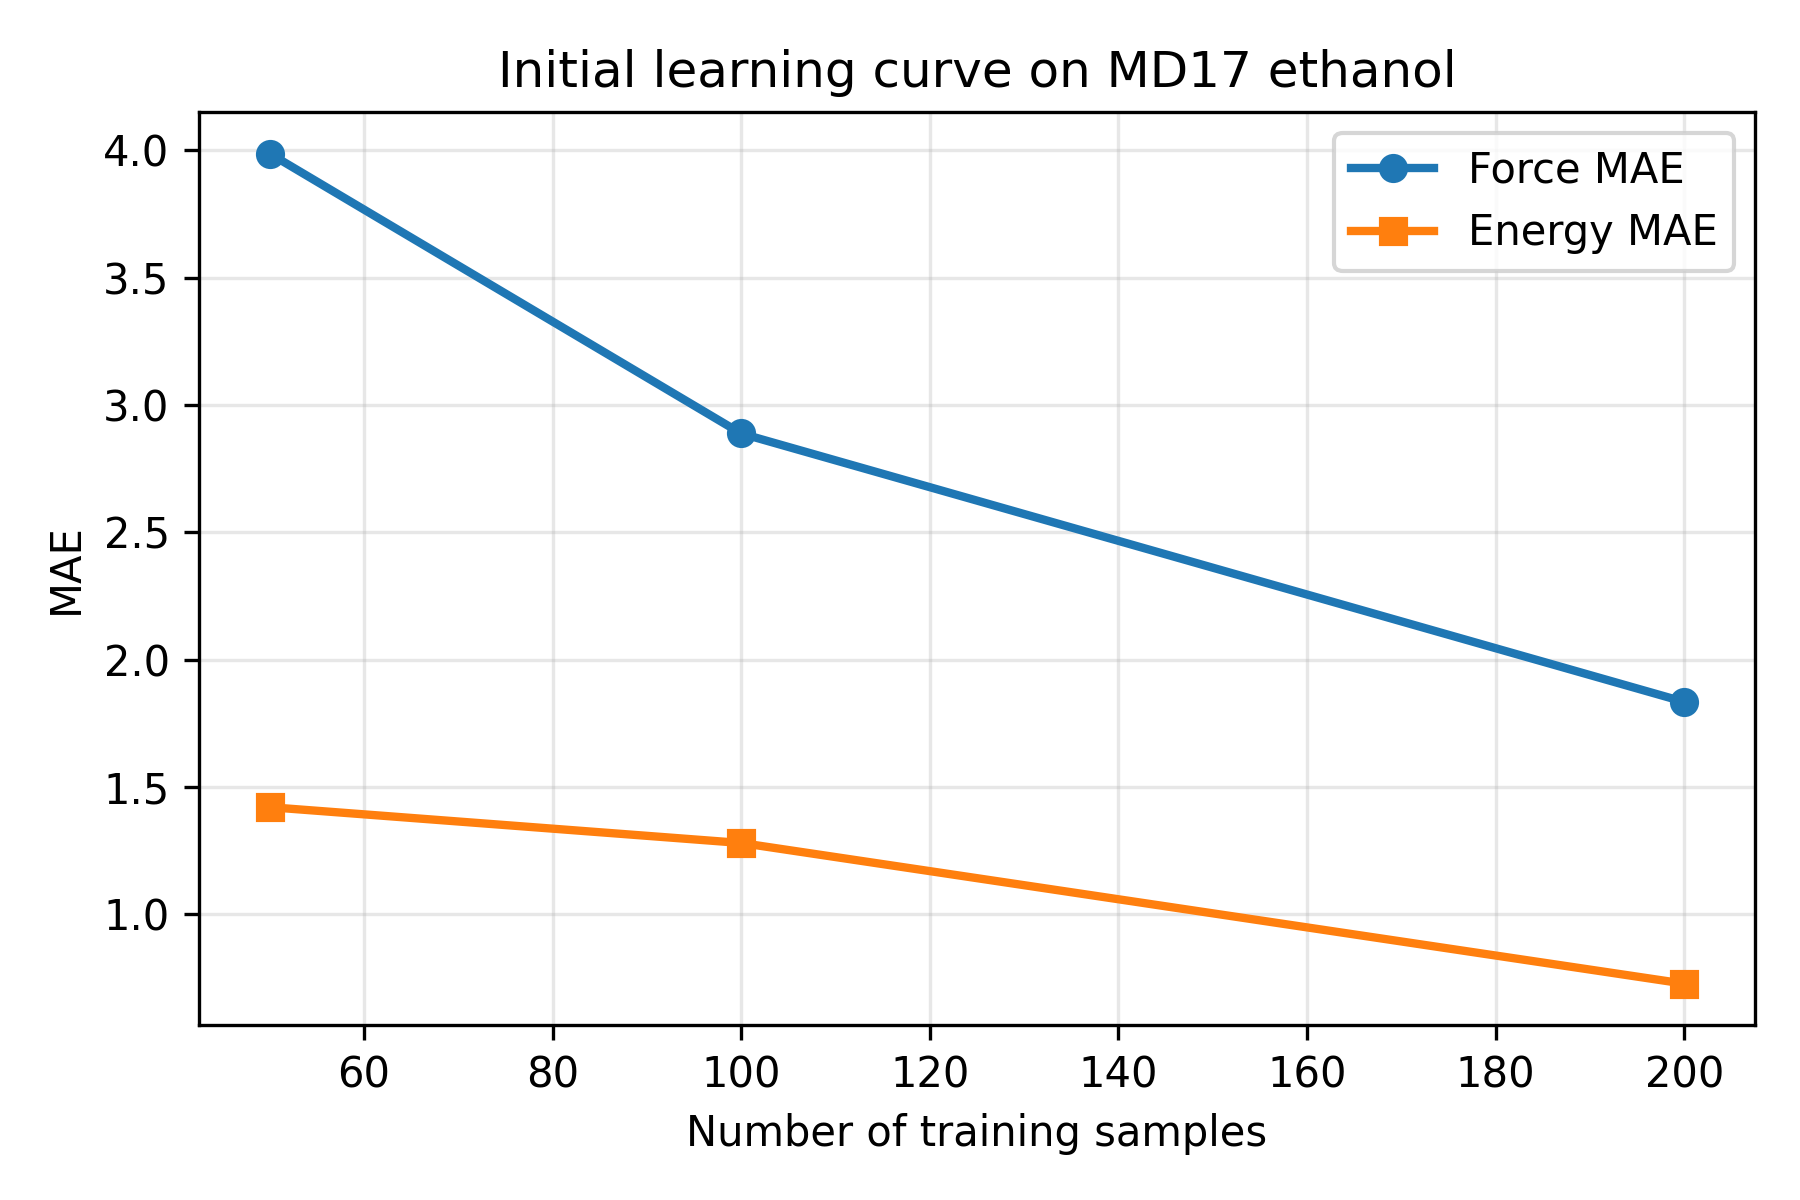
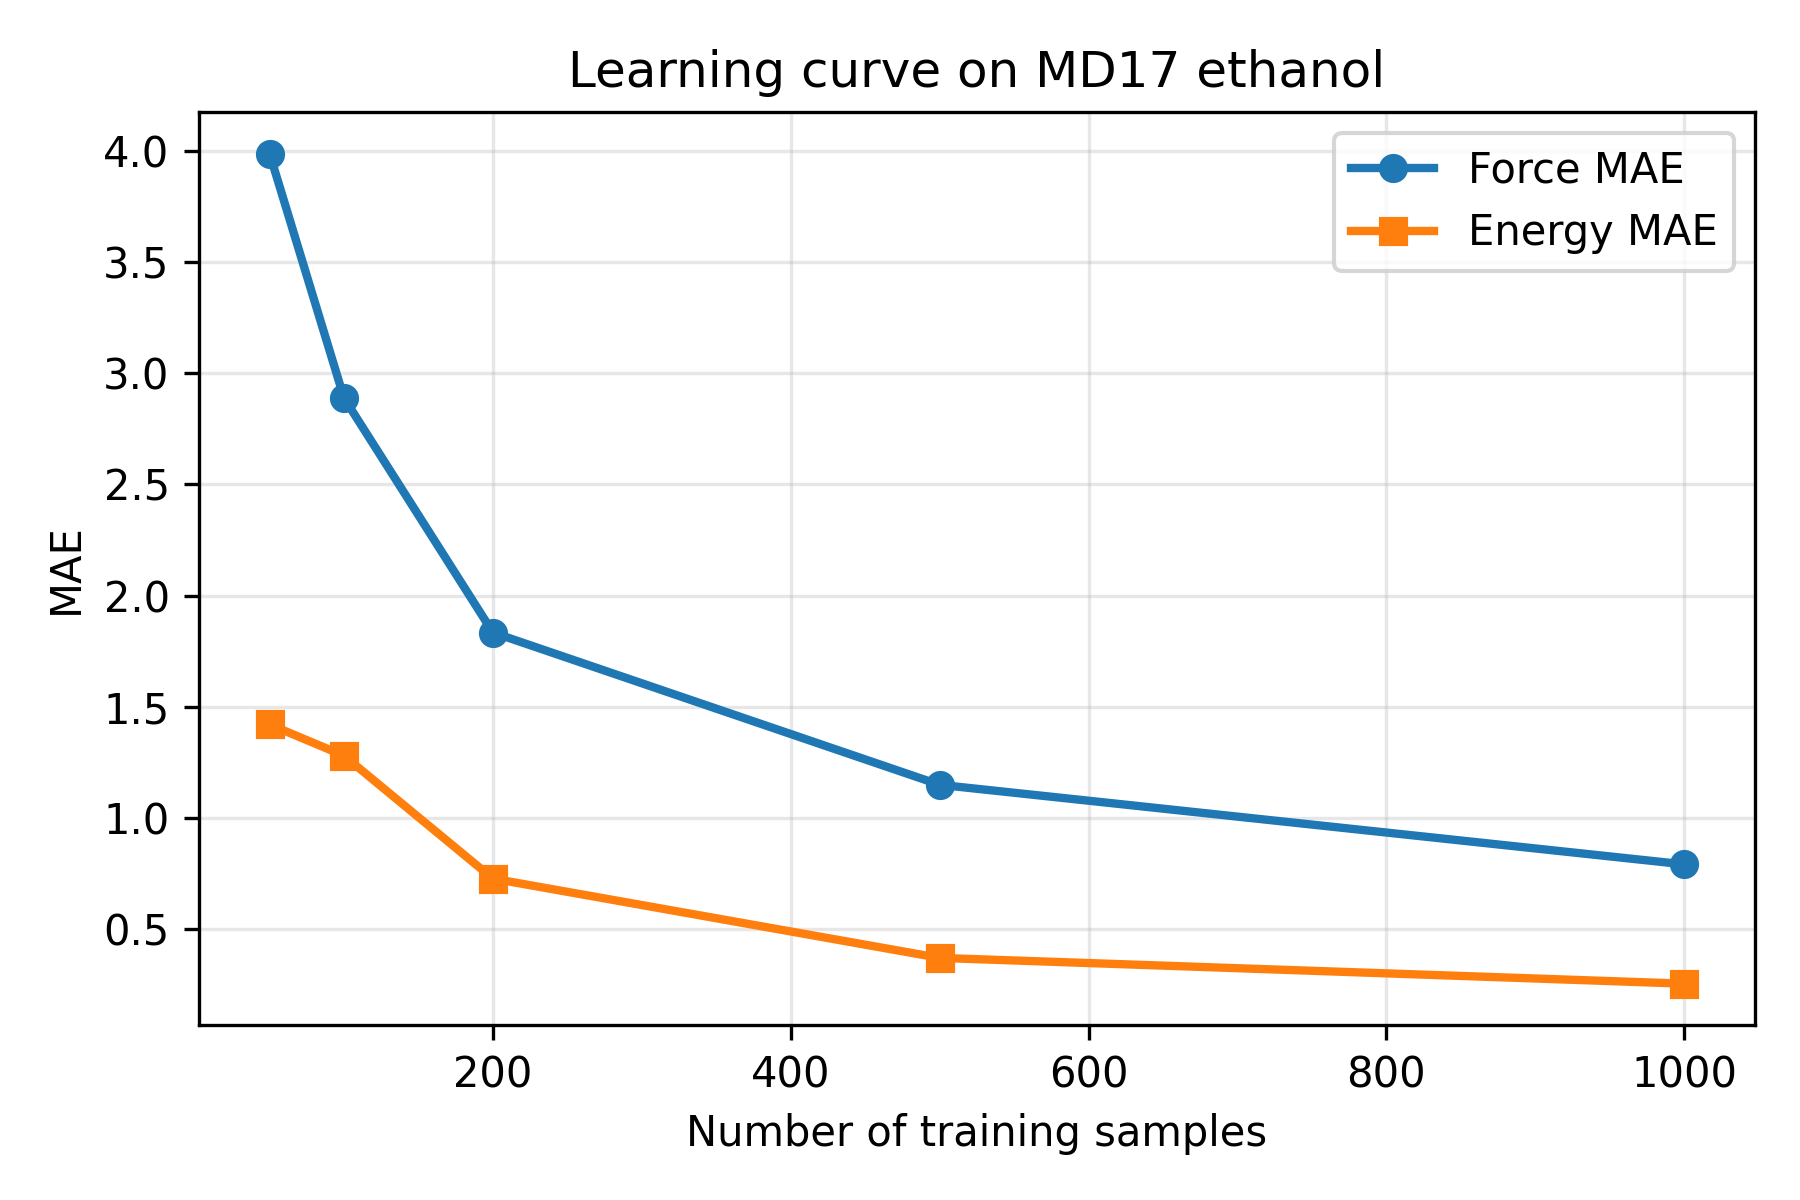
Update learning curve with 500 and 1000 samples

diff --git a/scripts/plot_initial_learning_curve.py b/scripts/plot_initial_learning_curve.py
@@ -1,8 +1,8 @@
 import matplotlib.pyplot as plt
 
-n_train = [50, 100, 200]
-force_mae = [3.9876, 2.8884, 1.8346]
-energy_mae = [1.4213, 1.2807, 0.7284]
+n_train = [50, 100, 200, 500, 1000]
+force_mae = [3.9876, 2.8884, 1.8346, 1.1501, 0.7925]
+energy_mae = [1.4213, 1.2807, 0.7284, 0.3721, 0.2563]
 
 plt.figure(figsize=(6, 4))
 plt.plot(n_train, force_mae, marker="o", linewidth=2, label="Force MAE")
@@ -10,7 +10,7 @@ plt.plot(n_train, energy_mae, marker="s", linewidth=2, label="Energy MAE")
 
 plt.xlabel("Number of training samples")
 plt.ylabel("MAE")
-plt.title("Initial learning curve on MD17 ethanol")
+plt.title("Learning curve on MD17 ethanol")
 plt.grid(True, alpha=0.3)
 plt.legend()
 plt.tight_layout()

diff --git a/results/learning_curve_initial.md b/results/learning_curve_initial.md
@@ -16,6 +16,8 @@ GPU: NVIDIA GeForce RTX 3060 Laptop GPU
 | 50 | 10 | 1.4213 | 1.8579 | 3.9876 | 5.4217 | 29.1350 |
 | 100 | 10 | 1.2807 | 1.5965 | 2.8884 | 3.9451 | 15.4340 |
 | 200 | 10 | 0.7284 | 0.9285 | 1.8346 | 2.5614 | 6.5036 |
+| 500 | 10 | 0.3721 | 0.4705 | 1.1501 | 1.5839 | 2.4858 |
+| 1000 | 10 | 0.2563 | 0.3370 | 0.7925 | 1.1134 | 1.2285 |
 
 ## Observation
 